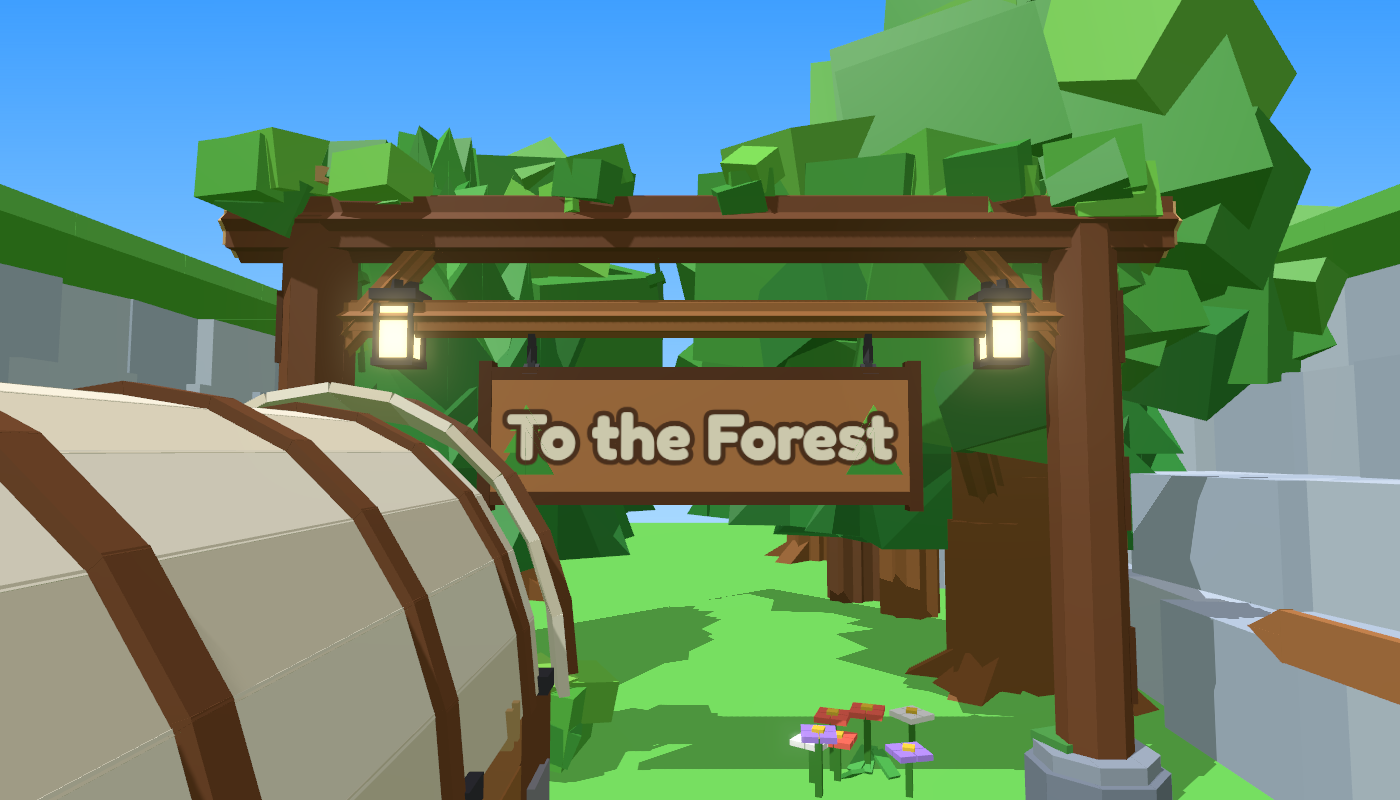
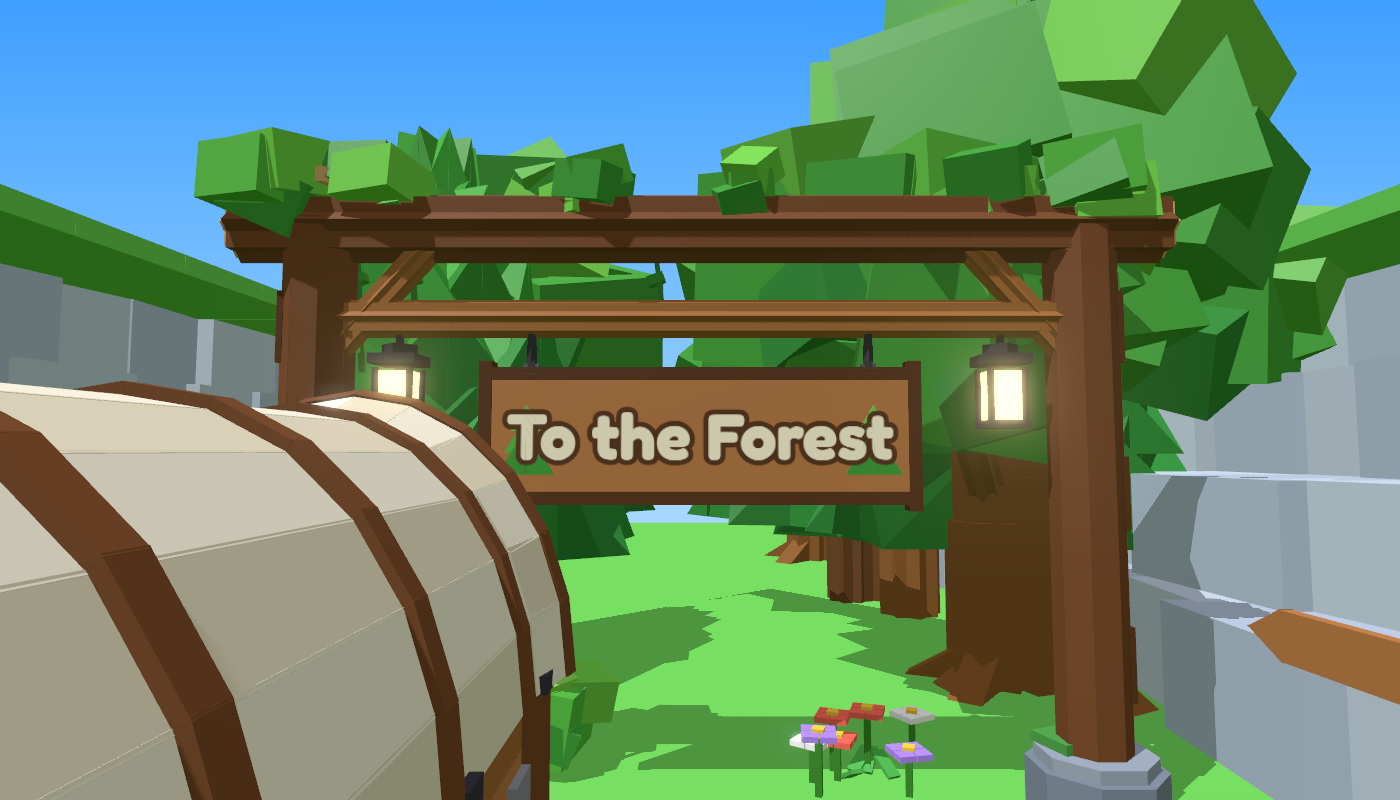
Forest entrance: attach every part properly
The wagon bed now rests on both bolsters, the sideboards reach the floor,
the tongue starts at the front axle, and the bucket, toolbox, shovel and
lasso sit against the wagon on hooks and straps. The arch lanterns hang
from the sign beam instead of cutting through it, the pitchfork sticks in
the hay, and small trim (beam ends, sign lines, crate edges, lantern base)
now overlaps the part it belongs to. Removed the rope pegs on the canvas.

Claude-Session: https://claude.ai/code/session_01PjeGShnzqfAT49FpA3wd4E

diff --git a/tools/forest-entrance/build_entrance.py b/tools/forest-entrance/build_entrance.py
@@ -90,7 +90,7 @@ def lantern(g, name, top, chain=0.8):
     for sx in (-1, 1):
         for sz in (-1, 1):
             g.box(f"{name}Bar", (0.1, 1.1, 0.1), add(c, (0.33 * sx, 0, 0.33 * sz)), IRON, collide=False)
-    g.box(f"{name}Base", (0.8, 0.15, 0.8), add(c, (0, -0.58, 0)), IRON, collide=False)
+    g.box(f"{name}Base", (0.8, 0.15, 0.8), add(c, (0, -0.54, 0)), IRON, collide=False)
 
 
 def barrel(g, name, pos, k=1.0):
@@ -98,7 +98,7 @@ def barrel(g, name, pos, k=1.0):
     g.octagon(name, r, h, add(pos, (0, h / 2, 0)), WOOD)
     for y in (0.3 * k, h - 0.3 * k):
         g.octagon(f"{name}Hoop", r + 0.04, 0.14 * k, add(pos, (0, y, 0)), IRON, collide=False)
-    g.octagon(f"{name}Lid", r - 0.1, 0.06, add(pos, (0, h + 0.03, 0)), WOOD_LIGHT, collide=False)
+    g.octagon(f"{name}Lid", r - 0.1, 0.06, add(pos, (0, h + 0.02, 0)), WOOD_LIGHT, collide=False)
 
 
 def crate(g, name, pos, size=1.2, yaw=0):
@@ -108,14 +108,14 @@ def crate(g, name, pos, size=1.2, yaw=0):
     for sgn in (-1, 1):
         for axis in range(2):
             off = [0, 0, 0]
-            off[0 if axis == 0 else 2] = sgn * (s / 2 + 0.02)
+            off[0 if axis == 0 else 2] = sgn * s / 2
             size_ = (0.06, s * 0.98, 0.18) if axis == 0 else (0.18, s * 0.98, 0.06)
             g.box(f"{name}Edge", size_, at(add(pos, (0, s / 2, 0)), R, (off[0] + (0 if axis == 0 else sgn * 0), 0,
                                                                           off[2])), WOOD_DARK, R=R, collide=False)
         # Diagonal slat on the front and back faces.
-        g.box(f"{name}Slat", (s * 1.3, 0.16, 0.05), at(add(pos, (0, s / 2, 0)), R, (0, 0, sgn * (s / 2 + 0.03))),
+        g.box(f"{name}Slat", (s * 1.3, 0.16, 0.05), at(add(pos, (0, s / 2, 0)), R, (0, 0, sgn * (s / 2 + 0.01))),
               WOOD_DARK, R=matmul(R, angles(0, 0, 45)), collide=False)
-    g.box(f"{name}Top", (s * 1.02, 0.1, s * 1.02), add(pos, (0, s + 0.04, 0)), WOOD_DARK, R=R, collide=False)
+    g.box(f"{name}Top", (s * 1.02, 0.1, s * 1.02), add(pos, (0, s + 0.02, 0)), WOOD_DARK, R=R, collide=False)
 
 
 def sack(g, name, pos, yaw=0):
@@ -153,7 +153,8 @@ def wagon(g, origin=(0, 0, 0), yaw=0.0):
         for sx in (-1, 1):
             wheel(g, "Wheel", P(2.75 * sx, y, z), r)
         g.box("Axle", (5.8, 0.4, 0.4), P(0, y, z), WOOD_DEEP, R=Rw)
-        g.box("Bolster", (4.6, 0.45, 0.6), P(0, y + 0.42, z), WOOD_DARK, R=Rw)
+        # The bolster fills the space between the axle and the floor, so the wagon bed rests on it.
+        g.box("Bolster", (4.6, 2.45 - (y + 0.15), 0.6), P(0, (y + 0.15 + 2.45) / 2, z), WOOD_DARK, R=Rw)
     g.box("Reach", (0.35, 0.35, 7.4), P(0, 2.05, 0), WOOD_DEEP, R=Rw)
     # Floor: planks with dark gaps between them.
     g.box("FloorBase", (4.2, 0.26, L), P(0, 2.5, 0), WOOD_DEEP, R=Rw)
@@ -162,8 +163,8 @@ def wagon(g, origin=(0, 0, 0), yaw=0.0):
         g.box("Plank", (0.55, 0.3, L), P(x, 2.66, 0), WOOD if i % 2 else WOOD_LIGHT, R=Rw)
     # Sideboards, stakes, rails and iron brackets.
     for sx in (-1, 1):
-        for j, y in enumerate((3.2, 3.9)):
-            g.box("Sideboard", (0.25, 0.66, L), P(2.1 * sx, y, 0), WOOD_LIGHT if j else WOOD, R=Rw)
+        for j, y in enumerate((2.9, 3.44, 3.98)):
+            g.box("Sideboard", (0.25, 0.56, L), P(2.1 * sx, y, 0), WOOD_LIGHT if j % 2 else WOOD, R=Rw)
         g.box("Rail", (0.42, 0.22, L + 0.2), P(2.12 * sx, 4.33, 0), WOOD_DARK, R=Rw)
         g.box("Skirt", (0.3, 0.3, L), P(2.12 * sx, 2.55, 0), WOOD_DARK, R=Rw)
         for z in (-4.4, -1.5, 1.5, 4.4):
@@ -173,8 +174,8 @@ def wagon(g, origin=(0, 0, 0), yaw=0.0):
         for z in (-4.65, 4.65):
             g.box("Corner", (0.1, 1.4, 0.3), P(2.24 * sx, 3.55, z), IRON, R=Rw)
     # Front board and a low back tailgate with chains.
-    for j, y in enumerate((3.2, 3.9)):
-        g.box("FrontBoard", (4.4, 0.66, 0.25), P(0, y, -4.75), WOOD_LIGHT if j else WOOD, R=Rw)
+    for j, y in enumerate((2.9, 3.44, 3.98)):
+        g.box("FrontBoard", (4.4, 0.56, 0.25), P(0, y, -4.75), WOOD_LIGHT if j % 2 else WOOD, R=Rw)
     g.box("Tailgate", (4.4, 0.8, 0.25), P(0, 3.15, 4.75), WOOD, R=Rw)
     g.box("TailgateTrim", (4.5, 0.18, 0.3), P(0, 3.6, 4.75), WOOD_DARK, R=Rw)
     for sx in (-1, 1):
@@ -204,53 +205,65 @@ def wagon(g, origin=(0, 0, 0), yaw=0.0):
             g.box("Bow", (width * 1.08, 0.14, 0.28), P((bx0 + bx1) / 2, (by0 + by1) / 2, z), WOOD_DARK, R=R,
                   collide=False)
         for sz in (-1, 1):
-            # Flared, slightly bigger ends of the bonnet.
+            # Flared, slightly bigger ends of the bonnet: each strip runs from the canvas edge out to a wider hem.
             (ex0, ey0), (ex1, ey1) = arc(t0, 1.1), arc(t1, 1.1)
-            Rf = matmul(R, angles(-16 * sz, 0, 0))
-            g.box("CanvasEnd", (width * 1.14, 0.12, 0.9), P((ex0 + ex1) / 2, (ey0 + ey1) / 2 - 0.05, sz * (L / 2 - 0.1)),
+            inner = (mx, my, sz * (L / 2 - 0.55))
+            outer = ((ex0 + ex1) / 2, (ey0 + ey1) / 2, sz * (L / 2 + 0.25))
+            X = (tx, ty, 0)
+            d = sub(outer, inner)
+            Z = unit(sub(d, scale(X, sum(a * b for a, b in zip(d, X)))))
+            Y = (Z[1] * X[2] - Z[2] * X[1], Z[2] * X[0] - Z[0] * X[2], Z[0] * X[1] - Z[1] * X[0])
+            Rf = matmul(Ry, tuple((X[k], Y[k], Z[k]) for k in range(3)))
+            length = math.dist(inner, outer)
+            g.box("CanvasEnd", (width * 1.12, 0.12, length + 0.2), P(*scale(add(inner, outer), 0.5)),
                   CANVAS2 if i % 2 else CANVAS, R=Rf)
-            g.box("CanvasHem", (width * 1.16, 0.16, 0.18), P((ex0 + ex1) / 2 * 1.02, (ey0 + ey1) / 2, sz * (L / 2 + 0.3)),
-                  WOOD_DARK, R=Rf, collide=False)
-    # Rope lashing where the canvas is tied to the rail.
-    for sx in (-1, 1):
-        for z in (-3.0, 0.0, 3.0):
-            for dz in (-0.12, 0.12):
-                g.box("Rope", (0.5, 0.36, 0.09), P(2.2 * sx, 4.4, z + dz), C("#c9a46a"), R=Rw, collide=False)
-    # A coiled lasso hanging on the side: the wrangler's own wagon.
-    hook = P(-2.42, 4.1, 2.9)
-    g.box("LassoHook", (0.4, 0.14, 0.14), hook, IRON, R=Rw, collide=False)
-    g.ring("Lasso", add(hook, (-0.12, -0.75, 0)), matmul(Rw, angles(0, 0, 90)), 0.7, 0.14,
+            g.box("CanvasHem", (width * 1.15, 0.18, 0.22), P(*add(outer, scale(Z, 0.02 * sz))), WOOD_DARK, R=Rf,
+                  collide=False)
+    # A coiled lasso hanging on the side, between the wheels: the wrangler's own wagon.
+    g.box("LassoHook", (0.4, 0.14, 0.14), P(-2.33, 4.1, 0.35), IRON, R=Rw, collide=False)
+    g.ring("Lasso", P(-2.28, 3.4, 0.35), matmul(Rw, angles(0, 0, 90)), 0.62, 0.14,
            [C("#d8a861"), C("#c48f4c")], n=16, collide=False)
-    g.ring("Lasso", add(hook, (-0.2, -0.8, 0.05)), matmul(Rw, angles(0, 0, 90)), 0.62, 0.13,
+    g.ring("Lasso", P(-2.43, 3.35, 0.4), matmul(Rw, angles(0, 0, 90)), 0.56, 0.13,
            [C("#c48f4c"), C("#d8a861")], n=16, collide=False)
-    g.box("LassoWrap", (0.3, 0.3, 0.3), add(hook, (-0.15, -0.12, 0)), C("#a8763c"), R=Rw, collide=False)
-    # Shovel strapped to the other side.
-    g.rod("ShovelHandle", P(2.45, 3.2, -3.6), P(2.45, 3.2, -1.0), 0.16, WOOD_LIGHT, collide=False)
-    g.box("ShovelBlade", (0.08, 0.7, 0.8), P(2.47, 3.2, -4.0), C("#8c8c96"), R=Rw, collide=False)
-    g.box("ShovelGrip", (0.14, 0.4, 0.14), P(2.45, 3.2, -0.9), WOOD_DARK, R=Rw, collide=False)
+    g.box("LassoWrap", (0.36, 0.34, 0.3), P(-2.36, 4.0, 0.35), C("#a8763c"), R=Rw, collide=False)
+    # Shovel strapped flat against the other side, with two iron straps.
+    g.rod("ShovelHandle", P(2.31, 3.2, -3.6), P(2.31, 3.2, -1.0), 0.16, WOOD_LIGHT, collide=False)
+    g.box("ShovelBlade", (0.1, 0.7, 0.8), P(2.28, 3.2, -4.0), C("#8c8c96"), R=Rw, collide=False)
+    g.box("ShovelGrip", (0.16, 0.4, 0.16), P(2.31, 3.2, -1.0), WOOD_DARK, R=Rw, collide=False)
+    for z in (-3.2, -2.0):
+        g.box("ShovelStrap", (0.26, 0.28, 0.1), P(2.3, 3.2, z), IRON, R=Rw, collide=False)
 
     # Driver's bench with a plaid blanket, and the tongue.
     g.box("Bench", (3.6, 0.25, 1.0), P(0, 4.75, -4.1), WOOD_LIGHT, R=Rw)
     for sx in (-1, 1):
-        g.box("BenchLeg", (0.25, 1.85, 0.25), P(1.5 * sx, 3.72, -4.1), WOOD_DARK, R=Rw)
+        g.box("BenchLeg", (0.25, 1.95, 0.25), P(1.5 * sx, 3.72, -4.1), WOOD_DARK, R=Rw)
     g.box("Blanket", (1.5, 0.12, 1.02), P(-0.8, 4.92, -4.1), C("#c0392b"), R=Rw, collide=False)
     for i in range(3):
         g.box("BlanketStripe", (0.12, 0.13, 1.03), P(-1.3 + 0.5 * i, 4.93, -4.1), C("#f2e6c8"), R=Rw, collide=False)
-    g.rod("Tongue", P(0, 1.75, -3.3), P(0, 0.5, -8.6), 0.34, WOOD_DARK)
-    g.box("Doubletree", (2.8, 0.25, 0.3), P(0, 0.62, -8.2), WOOD_DARK, R=Rw)
+    # The tongue starts on the front axle and rests on the ground at the far end.
+    g.rod("Tongue", P(0, 1.7, -2.7), P(0, 0.25, -8.6), 0.34, WOOD_DARK)
+    g.box("TongueClamp", (0.5, 0.5, 0.5), P(0, 1.7, -2.9), IRON, R=Rw)
+    g.box("Doubletree", (2.8, 0.25, 0.3), P(0, 0.32, -8.3), WOOD_DARK, R=Rw)
     for sx in (-1, 1):
-        g.box("SingleTree", (0.3, 0.2, 1.2), P(1.3 * sx, 0.55, -8.3), WOOD_DEEP, R=Rw)
+        g.box("SingleTree", (0.3, 0.2, 1.2), P(1.3 * sx, 0.3, -8.3), WOOD_DEEP, R=Rw)
 
     # Side details: water bucket, toolbox, spare wheel and a lantern at the back.
-    g.octagon("Bucket", 0.42, 0.8, P(-2.75, 3.2, -1.0), WOOD_LIGHT)
-    g.octagon("BucketHoop", 0.45, 0.12, P(-2.75, 3.4, -1.0), IRON, collide=False)
-    g.rod("BucketHandle", P(-2.75, 3.6, -1.4), P(-2.6, 4.2, -1.0), 0.07, IRON, collide=False)
-    g.box("Toolbox", (0.55, 0.6, 1.8), P(2.62, 2.95, 0.2), WOOD, R=Rw)
-    g.box("ToolboxLid", (0.62, 0.12, 1.86), P(2.62, 3.3, 0.2), WOOD_DARK, R=Rw, collide=False)
-    for z in (-0.5, 0.9):
-        g.box("ToolboxStrap", (0.64, 0.66, 0.12), P(2.62, 2.95, z), IRON, R=Rw, collide=False)
-    lantern(g, "WagonLantern", P(1.5, 7.2, 4.9), chain=0.5)
-    g.box("LanternHook", (0.12, 0.12, 0.8), P(1.5, 7.2, 4.6), IRON, R=Rw, collide=False)
+    # The bucket hangs against the sideboard from a hook on the rail.
+    g.octagon("Bucket", 0.42, 0.8, P(-2.62, 3.2, -1.0), WOOD_LIGHT)
+    g.octagon("BucketHoop", 0.45, 0.12, P(-2.62, 3.4, -1.0), IRON, collide=False)
+    for dz in (-0.38, 0.38):
+        g.rod("BucketHandle", P(-2.62, 3.55, -1.0 + dz), P(-2.4, 4.36, -1.0), 0.08, IRON, collide=False)
+    g.box("BucketHook", (0.34, 0.16, 0.16), P(-2.32, 4.36, -1.0), IRON, R=Rw, collide=False)
+    # Toolbox bolted to the side between the wheels.
+    g.box("Toolbox", (0.55, 0.6, 1.6), P(2.5, 2.95, -0.15), WOOD, R=Rw)
+    g.box("ToolboxLid", (0.62, 0.12, 1.66), P(2.53, 3.3, -0.15), WOOD_DARK, R=Rw, collide=False)
+    for z in (-0.65, 0.35):
+        g.box("ToolboxStrap", (0.6, 0.66, 0.12), P(2.52, 2.95, z), IRON, R=Rw, collide=False)
+    # Lantern on an iron arm that sticks out from the back corner stake.
+    g.rod("LanternPole", P(2.45, 4.3, 4.4), P(2.45, 6.05, 4.4), 0.14, IRON, collide=False)
+    g.rod("LanternArm", P(2.4, 5.98, 4.4), P(3.3, 5.98, 4.4), 0.14, IRON, collide=False)
+    g.box("LanternKnob", (0.22, 0.22, 0.22), P(3.3, 5.98, 4.4), IRON, R=Rw, collide=False)
+    lantern(g, "WagonLantern", P(3.12, 5.95, 4.4), chain=0.5)
 
     # Cargo you can see through the open back.
     barrel(g, "CargoBarrel", P(-1.05, 2.8, 3.4))
@@ -269,7 +282,7 @@ def arch(g, z=-9.0, half=7.5, rng=None):
     for sx in (-1, 1):
         x = half * sx
         g.octagon("Footing", 1.15, 1.1, (x, 0.55, z), STONE_DARK)
-        g.octagon("FootingCap", 1.0, 0.3, (x, 1.25, z), STONE)
+        g.octagon("FootingCap", 1.0, 0.3, (x, 1.2, z), STONE)
         g.box("Moss", (1.4, 0.2, 0.9), (x - 0.2 * sx, 1.45, z - 0.3), C("#4f9e4a"), rot=(0, 20, 0), collide=False)
         g.octagon("Post", 0.62, top - 1.2, (x, 1.3 + (top - 1.2) / 2, z), WOOD_DARK)
         for y in (3.0, 6.2, 9.4):
@@ -280,8 +293,8 @@ def arch(g, z=-9.0, half=7.5, rng=None):
     # Top log with cut ends, and a lower beam that holds the sign.
     log(g, "TopBeam", (-half - 1.6, top, z), (half + 1.6, top, z), 1.0, WOOD_DARK)
     for sx in (-1, 1):
-        g.box("BeamEnd", (0.1, 0.85, 0.85), ((half + 1.65) * sx, top, z), CUT, collide=False)
-        g.box("BeamEnd", (0.12, 0.82, 0.82), ((half + 1.66) * sx, top, z), CUT, rot=(45, 0, 0), collide=False)
+        g.box("BeamEnd", (0.1, 0.85, 0.85), ((half + 1.63) * sx, top, z), CUT, collide=False)
+        g.box("BeamEnd", (0.12, 0.82, 0.82), ((half + 1.63) * sx, top, z), CUT, rot=(45, 0, 0), collide=False)
     log(g, "SignBeam", (-half, 9.6, z), (half, 9.6, z), 0.55, WOOD)
     # Leaves and hanging vines on the top beam.
     for i, (x, w) in enumerate([(-8.2, 1.8), (-6.4, 1.4), (-2.5, 1.2), (1.2, 1.0), (5.6, 1.6), (7.8, 1.9)]):
@@ -308,7 +321,7 @@ def arch(g, z=-9.0, half=7.5, rng=None):
                             surface_text("To Wrangler Camp", "Front", stroke="#5a3418")])
     for sz in (-1, 1):
         for y in (-0.38, 0.38):
-            g.box("PlankLine", (sign_w * 0.96, 0.05, 0.02), (0, sign_y + y, z + sz * 0.16), WOOD_DARK, collide=False)
+            g.box("PlankLine", (sign_w * 0.96, 0.05, 0.02), (0, sign_y + y, z + sz * 0.155), WOOD_DARK, collide=False)
     for y in (-1, 1):
         g.box("SignFrame", (sign_w + 0.3, 0.25, 0.42), (0, sign_y + y * (sign_h / 2 + 0.05), z), WOOD_DEEP)
     for sx in (-1, 1):
@@ -316,11 +329,11 @@ def arch(g, z=-9.0, half=7.5, rng=None):
         # Little pine trees carved at both ends of the sign (on both faces).
         for sz in (-1, 1):
             for j, (h, w) in enumerate([(0.9, 1.1), (0.7, 0.85), (0.5, 0.6)]):
-                tri(g, "SignPine", (sx * (sign_w / 2 - 0.75), sign_y - 0.75 + 0.42 * j, z + sz * 0.18), w, h, 0.06,
+                tri(g, "SignPine", (sx * (sign_w / 2 - 0.75), sign_y - 0.75 + 0.42 * j, z + sz * 0.165), w, h, 0.06,
                     LEAF[j], collide=False)
     # Lanterns hanging from the top beam, outside the sign.
     for sx in (-1, 1):
-        lantern(g, "ArchLantern", (5.9 * sx, top - 0.5, z))
+        lantern(g, "ArchLantern", (5.9 * sx, 9.36, z), chain=0.5)
 
 
 # -------------------------------------------------------------- signpost ---
@@ -400,9 +413,12 @@ def cargo(g):
     g.box("HayTop", (2.6, 0.2, 1.6), (-8.1, 1.4, 1.5), C("#f2d57a"), rot=(0, 90, 0), collide=False)
     for dz in (-0.7, 0.7):
         g.box("HayStrap", (0.14, 1.36, 1.66), (-8.1, 0.66, 1.5 + dz), C("#a8761c"), collide=False)
-    g.rod("Pitchfork", (-7.4, 0, 0.4), (-7.9, 3.4, 0.9), 0.1, WOOD_DARK, collide=False)
+    # Pitchfork stuck in the hay bale, tines down.
+    g.rod("Pitchfork", (-8.0, 1.75, 1.8), (-8.25, 4.6, 2.0), 0.12, WOOD_DARK, collide=False)
+    g.box("ForkBar", (0.42, 0.12, 0.12), (-8.0, 1.75, 1.8), IRON, collide=False)
     for i in range(3):
-        g.rod("Tine", (-7.9 + 0.12 * (i - 1), 3.35, 0.9), (-8.0 + 0.12 * (i - 1), 4.0, 1.0), 0.05, IRON, collide=False)
+        g.rod("Tine", (-8.0 + 0.15 * (i - 1), 1.0, 1.8), (-8.0 + 0.15 * (i - 1), 1.78, 1.8), 0.06, IRON,
+              collide=False)
 
 
 # ----------------------------------------------------------------- build ---

diff --git a/models/forest-entrance/README.md b/models/forest-entrance/README.md
@@ -1,7 +1,7 @@
 # Forest Entrance – de ingang naar het bos
 
 `ForestEntrance.rbxm` vervangt de oude kar met het bordje "To the Forest". Het is een hele ingang in dezelfde stijl
-als je spel, gemaakt van gewone Parts (872 stuks), dus het bestand werkt meteen.
+als je spel, gemaakt van gewone Parts (871 stuks), dus het bestand werkt meteen.
 
 ![Zo ziet het eruit vanaf de camera van de speler](../../previews/forest_entrance_game.png)
 
@@ -17,7 +17,7 @@ Het model **ForestEntrance** heeft 5 losse modellen. Je kunt elk stuk apart verp
 
 | Onderdeel | Wat je ziet |
 |---|---|
-| **Wagon** | een huifkar met spaakwielen (ijzeren banden, 12 spaken, naven), assen, een vloer van losse planken, zijborden met ijzeren beslag, een huif van linnen met houten bogen en uitlopende randen, een bok met een geruite deken, een dissel, een emmer, een gereedschapskist, een schep, een **opgerolde lasso** aan de zijkant, een lantaarn die echt licht geeft, en lading achterin (ton, kist, zakken, slaaprol) |
+| **Wagon** | een huifkar met spaakwielen (ijzeren banden, 12 spaken, naven), assen, een vloer van losse planken, zijborden met ijzeren beslag, een huif van linnen met houten bogen en uitlopende randen, een bok met een geruite deken, een dissel, een emmer aan een haak, een vastgeschroefde gereedschapskist, een vastgebonden schep, een **opgerolde lasso** aan de zijkant, een lantaarn die echt licht geeft, en lading achterin (ton, kist, zakken, slaaprol) |
 | **Archway** | een poort van boomstammen op stenen voeten met mos, schuine steunbalken, bladeren en slingerplanten op de bovenste balk, twee lantaarns met licht, en een bord aan kettingen. Aan de kant van het kamp staat **"To the Forest"**, aan de kant van het bos **"To Wrangler Camp"** |
 | **Signpost** | een wegwijzer met drie pijlen: **Critter Woods**, **Deep Woods** en **Wrangler Camp** (tekst op beide kanten) |
 | **Campfire** | een kring van stenen, houtblokken, een echt **vuur** (Fire) met rook, opvliegende vonkjes en oranje licht, een driepoot met een pan soep, en twee boomstammen om op te zitten |
@@ -46,8 +46,9 @@ zodat spelers er niet achter blijven haken. De kar, de palen, de kisten en de to
 
 ## Let op
 
-Ik heb het bestand gemaakt met de rbxm-writer uit deze repo, het in 3D gerenderd en gecontroleerd dat er geen losse,
-zwevende onderdelen zijn. Roblox Studio zelf kan ik niet openen. Gaat er iets mis? Kopieer de tekst uit het
+Ik heb het bestand gemaakt met de rbxm-writer uit deze repo, het van alle kanten in 3D gerenderd en met een
+controleprogramma nagekeken dat elk onderdeel echt vastzit aan een ander onderdeel (of op de grond staat): er zijn
+geen zwevende stukjes of kiertjes. Roblox Studio zelf kan ik niet openen. Gaat er iets mis? Kopieer de tekst uit het
 Output-venster en stuur die op, dan los ik het op.
 
 ## Opnieuw maken
